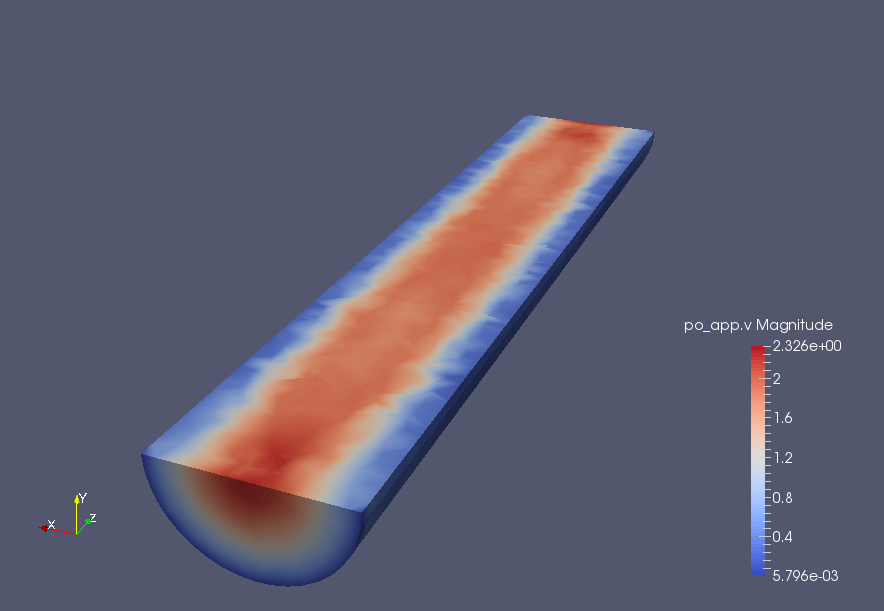
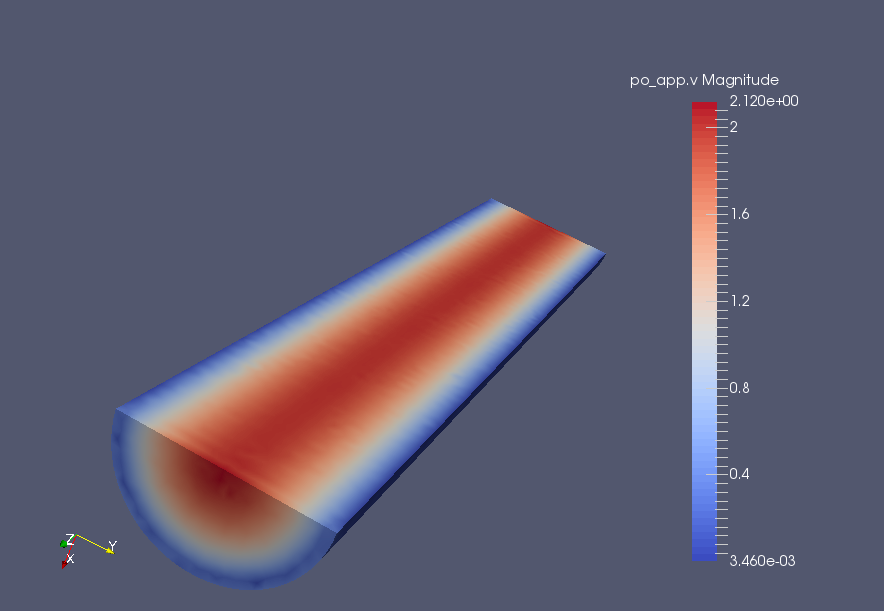
up note [ci skip]

Changed region(s): [[0.1222, 0.1244, 0.9468, 0.964], [0.0611, 0.8707, 0.0916, 0.9329], [0.0305, 0.8396, 0.0611, 0.8707]]

diff --git a/doc/note/note.tex b/doc/note/note.tex
@@ -38,17 +38,183 @@
 \end{enumerate}
 
 \section{Poiseuille}
-On prend un écoulement de Poiseuille qui est solution de Navier-Stokes.\\
+On prend un écoulement de Poiseuille qui est solution de Navier-Stokes, avec le profil suivant : $\mbf{v} = (0,0, 2(1-\frac{x^2+y^2}{R^2}))$ dans un cylindre de rayon $R=0.5$ et de longueur $L=5$ pour un nombre de Reynolds de 1.\\
+On a donc les conditions aux limites suivantes :
+\begin{gather*}
+  \alpha_0 = \mbf{v}\cdot\mbf{n} =
+  \begin{cases}
+    -\mbf{v}_z & \mbox{ sur } \Gamma_1\\
+    +\mbf{v}_z & \mbox{ sur } \Gamma_2\\
+    0 & \mbox{ sur } \Gamma_3
+  \end{cases}\\
+  \alpha_1 = \curl\mbf{v}\cdot\mbf{n} = 0 \mbox{ sur } \Gamma\\
+  \alpha_2 = \curll\mbf{v}\cdot\mbf{n} =
+  \begin{cases}
+    -32 & \mbox{ sur } \Gamma_1\\
+    +32 & \mbox{ sur } \Gamma_2\\
+    0 & \mbox{ sur } \Gamma_3
+  \end{cases}
+\end{gather*}
+
 On sait aussi que l'écoulement est stationnaire donc $\frac{\partial\mbf{v}}{\partial t}=0$.\\
 De plus, le terme non linéaire de Navier-Stokes est nul, il reste donc
 \begin{gather}
   \frac{1}{Re}\curll\mbf{v}=-\grad p\\
-  \frac{1}{Re}\left( \int_\Omega(\curll\mbf{u})\cdot\mbf{g}_k  + \int_\Omega(\curll\mbf{a})\cdot\mbf{g}_k \right) = \int_\Omega p\div\mbf{g}_k - \int_\Gamma p\mbf{g}_k\cdot\mbf{n}\\
+  \frac{1}{Re}\left( \int_\Omega(\curll\mbf{u})\cdot\mbf{g}_k  + \int_\Omega(\curll\mbf{a})\cdot\mbf{g}_k \right) = \int_\Omega p\div\mbf{g}_k - \int_\Gamma p\mbf{g}_k\cdot\mbf{n}
+\end{gather}
+On sait que $\mbf{g}_k\in D^1$ donc $\mbf{g}_k=\mbf{g}_k^0 + \grad\phi_k$,
+en utilisant les formules de Green suivantes :
+\[
+\int_\Omega \curl\bm{\varphi}\cdot\bm{\psi} = \int_\Omega \bm{\varphi}\cdot\curl\bm{\psi} + \int_\Gamma (\mbf{n}\times\bm{\varphi})\cdot\bm{\psi}\quad\quad
+\int_\Omega \bm{\varphi}\cdot\grad\psi = -\int_\Omega \psi\div\bm{\varphi} + \int_\Gamma \psi\bm{\varphi}\cdot\mbf{n}
+\]
+on a :
+\[
+\int_\Omega \curll\bm{\varphi}\cdot\mbf{g}_k = \int_\Omega \curl\bm{\varphi}\cdot\curl\mbf{g}_k^0 + \int_\Gamma \psi_k\curll\bm{\varphi}\cdot\mbf{n}
+\]
+d'ou
+\begin{gather}
   \frac{1}{Re}\left( \int_\Omega(\curl\mbf{u})\cdot(\curl\mbf{g}_k)  + \int_\Omega(\curl\mbf{a})\cdot(\curl\mbf{g}_k) + \int_\Gamma \alpha_2\phi_k \right) = 0\\
   \frac{1}{Re}\sum_i c_i\lambda_i\lambda_k\int_\Omega \mbf{g}_i\cdot\mbf{g}_k = -\frac{1}{Re}\left( \int_\Omega (\curl\mbf{a})\cdot(\curl\mbf{g}_k) + \int_\Gamma \alpha_2\phi_k \right)\\
   c_k = -\frac{1}{\lambda_k^2}\left( \int_\Omega (\curl\mbf{a})\cdot(\curl\mbf{g}_k) + \int_\Gamma \alpha_2\phi_k \right)
 \end{gather}
 
+\subsection{Stokes}
+Dans le cas où $\mbf{a} = \grad\psi^0$, on a que $\curl\mbf{a} = \curll\mbf{a} = 0$ et donc que $\mbf{u}$ doit être solution du problème de Stokes :
+\begin{pb} Trouver $\mbf{u}\in D^1$ et $p\in H^1\setminus \R$ tel que :
+  \begin{equation*}
+    \left\{
+    \begin{aligned}
+      \curll\mbf{u} + \grad p &= 0 & \Omega\\
+      \div \mbf{u} &= 0 & \Omega\\
+      \curll\mbf{u}\cdot\mbf{n} &= \alpha_2 & \Gamma
+    \end{aligned}
+    \right.
+  \end{equation*}
+\end{pb}
+Comme $\mbf{u}$ doit appartenir à $D^1$, on se sert de la matrice de changement de base utilisé pour le problème aux valeurs propres. Ceci nous permet d'imposer la condition $\curl\mbf{u}\cdot\mbf{n}=0$.\\
+Pour imposer la divergence nulle, on utilise le terme de pression $p\in H^1\setminus \R$, que l'on choisit à moyenne nulle. Il faut donc aussi rajouter un multiplicateur de Lagrange.\\
+On a donc la forme variationnelle suivante :
+\begin{pb}Supposons $\mbf{b}\in [W^{-1/2,2}(\Gamma)]^3$. Trouver $(\mbf{u},p,\lambda)\in D^1\times H^1\setminus\R\times\R$ tel que :
+  \begin{equation*}
+    \underbrace{\int_\Omega \curl\mbf{u}\cdot\curl\bm{\phi}}_{A} + \underbrace{\int_\Omega \bm{\phi}\grad p}_{B^t} + \underbrace{\int_\Omega \mbf{u}\grad q}_{B} + \underbrace{\int_\Omega p\lambda}_\Lambda + \underbrace{\int_\Omega q\theta}_\Theta = \underbrace{- <\mbf{b}, \bm{\phi}>_\Gamma}_L
+  \end{equation*}
+  $\forall (\bm{\phi},q,\theta)\in D^1\times H^1\setminus\R\times\R$ avec $\bm{\phi}=\bm{\phi}_0+\grad\varphi$
+\end{pb}
+En utilisant les intégrations par parties, on sait que
+\[<\mbf{b}, \bm{\phi}>_\Gamma=\int_\Gamma \varphi\underbrace{\curll\mbf{u}\cdot\mbf{n}}_{\alpha_2}\]
+
+On obtient donc le problème sous forme matricielle suivant :
+\begin{equation*}
+  \begin{pmatrix}
+    C^t & 0 & 0\\
+    0 & Id & 0\\
+    0 & 0 & Id
+  \end{pmatrix}
+  \begin{pmatrix}
+    A & B^t & 0\\
+    B & 0 & \Lambda\\
+    0 & \Theta & 0
+  \end{pmatrix}
+  \begin{pmatrix}
+    C & 0 & 0\\
+    0 & Id & 0\\
+    0 & 0 & Id
+  \end{pmatrix}
+  =
+  \begin{pmatrix}
+    C & 0 & 0\\
+    0 & Id & 0\\
+    0 & 0 & Id
+  \end{pmatrix}
+    \begin{pmatrix}
+    L\\
+    0\\
+    0
+  \end{pmatrix}
+\end{equation*}
+où C est la matrice de changement de base et
+\begin{align*}
+  A_{ij} &= \int_\Omega \curl\bm{\phi}_i\cdot\curl\bm{\phi}_j && i,j=1,\dots,M\\
+  B_{ij} &= \int_\Omega \grad\psi_i\bm{\phi}_j && i=1,\dots,L\quad j=1,\dots,M\\
+  \Lambda_i &= \int_\Omega \psi_i\lambda  && i=1,\dots,L\\
+  \Theta_j &= \int_\Omega \psi_j\theta && j=1,\dots,L\\
+  L_{i} &= <\mbf{b},\bm{\phi}_i>_\Gamma = \int_\Gamma \alpha_2\varphi_i && i=1,\dots,M
+\end{align*}
+
+Ce qui produit les résultats suivants :
+\begin{figure}[H]
+  \centering
+  \includegraphics[scale=0.4]{aarrow}
+  \caption{$\mbf{a}_h$ pour $h=0.05$}
+\end{figure}
+\begin{figure}[H]
+  \centering
+  \includegraphics[scale=0.4]{uarrow}
+  \caption{$\mbf{u}_h$ pour $h=0.05$}
+\end{figure}
+\begin{figure}[H]
+  \centering
+  \includegraphics[scale=0.4]{vh}
+  \caption{$\mbf{v}_h$ pour $h=0.05$}
+\end{figure}
+\begin{figure}[H]
+  \centering
+  \includegraphics[scale=0.4]{vharrow}
+  \caption{$\mbf{v}_h$ pour $h=0.05$}
+\end{figure}
+
+Avec les erreurs :
+\begin{table}[H]
+  \centering
+  \begin{tabular}{c|c||c|c}
+    h & \# Nh & $||\mbf{v}_h-\mbf{v}||_{L^2}$ & $||\curl\mbf{v}_h-\curl\mbf{v}||_{L^2}$ \\
+    \hline
+    0.1 & 20000 & 0.135 & 4.057\\
+    0.05 & 200000 & 0.062 & 32.93
+  \end{tabular}
+\end{table}
+
+Cela prouve donc que le rélévement de $\alpha_0$ et $\alpha_1$ fonctionne, sans avoir forcément à relever $\alpha_2$. Cette condition est imposée de manière faible lors de la résolution du problème.\\
+On peut donc bien utiliser les fonctions propres avec le relévement proposé par P.Penel et J. Neustuppa pour résoudre le problème de Stokes.
+
+\subsection{Fonctions propres}
+On résout donc le problème suivant :
+\begin{pb}Trouver $\mbf{u}\in D^1$ tel que $\forall k=1,\dots,M$ :
+  \[ \int_\Omega(\curl\mbf{u})\cdot(\curl\mbf{g}_k) = - \int_\Gamma \alpha_2\phi_k \]
+  ce qui revient à trouver :
+  \[ c_k = -\frac{1}{\lambda_k^2}\int_\Gamma \alpha_2\phi_k \]
+\end{pb}
+
+\begin{figure}[H]
+  \centering
+  \includegraphics[scale=0.4]{u200}
+  \caption{$\mbf{u}_h$ pour $h=0.075$ et 200 modes}
+\end{figure}
+\begin{figure}[H]
+  \centering
+  \includegraphics[scale=0.4]{v200}
+  \caption{$\mbf{v}_h$ pour $h=0.075$ et 200 modes}
+\end{figure}
+
+
+La résolution de ce problème fonctionne mais présente certains inconvénients.
+\begin{itemize}
+\item
+  La solution est plus sensible à la précision du relévement $\mbf{a}$.
+\item
+  Le problème aux valeurs propres demande une grande quantité de mémoire (plus de 400Go de RAM pour 200000 dofs)
+\end{itemize}
+Pour le premier, la résolution d'un système mixte, plutôt que deux problèmes successifs, pourrait améliorer la précision et la régularité de $\mbf{a} = \grad\phi^0$.\\
+Pour le second, une idée est d'utiliser un préconditionneur pour le problème aux valeurs propres.\\
+Au lieu de résoudre le problème $(Ax-\lambda Bx) = 0$, on résout $P^{-1}(Ax-\lambda Bx) = 0$ où le conditionnement de $P^{-1}A$ est meilleur que celui de $A$. Une difficulté pourait être de faire cohabiter le préconditionneur et la matrice de changement de base.\\
+Mais appliquer d'abord le préconditionneur et ensuite le changement de base, devrait fonctionner, car une fois le précondionneur appliqué, les éléments se trouvent toujours dans $\N_h$ et donc, appliquer la matrice permet toujours de passer dans $\Z_h$.\\
+Ce qui devrait donner dans notre cas :
+\[ C^t P^{-1}ACx = \lambda C^t P^{-1}BCx \]
+
+L'idée est d'utiliser le préconditionneur définit dans \textit{Parallel numerical solution of the time-harmonic Maxwell equations in mixed form} par D. Li, G. Greif et D. Schötzau.
+
+\iffalse
 \subsection{Relévement}
 \label{relev}
 On suit ce qui est décrit dans l'article de J. Neustuppa et P. Penel\footnote{The Navier-Stokes equation with inhomogeneous boundary conditions based on vorticity, 2008} :
@@ -127,7 +293,7 @@ où
 \end{table}
 
 Des calculs sont encore en cours pour essayer de trouver une méthode qui fonctionne.
-
+\fi
 \section{Conditions aux bords}
 \label{cdtsortie}
 Sur $\Gamma_3$ :
